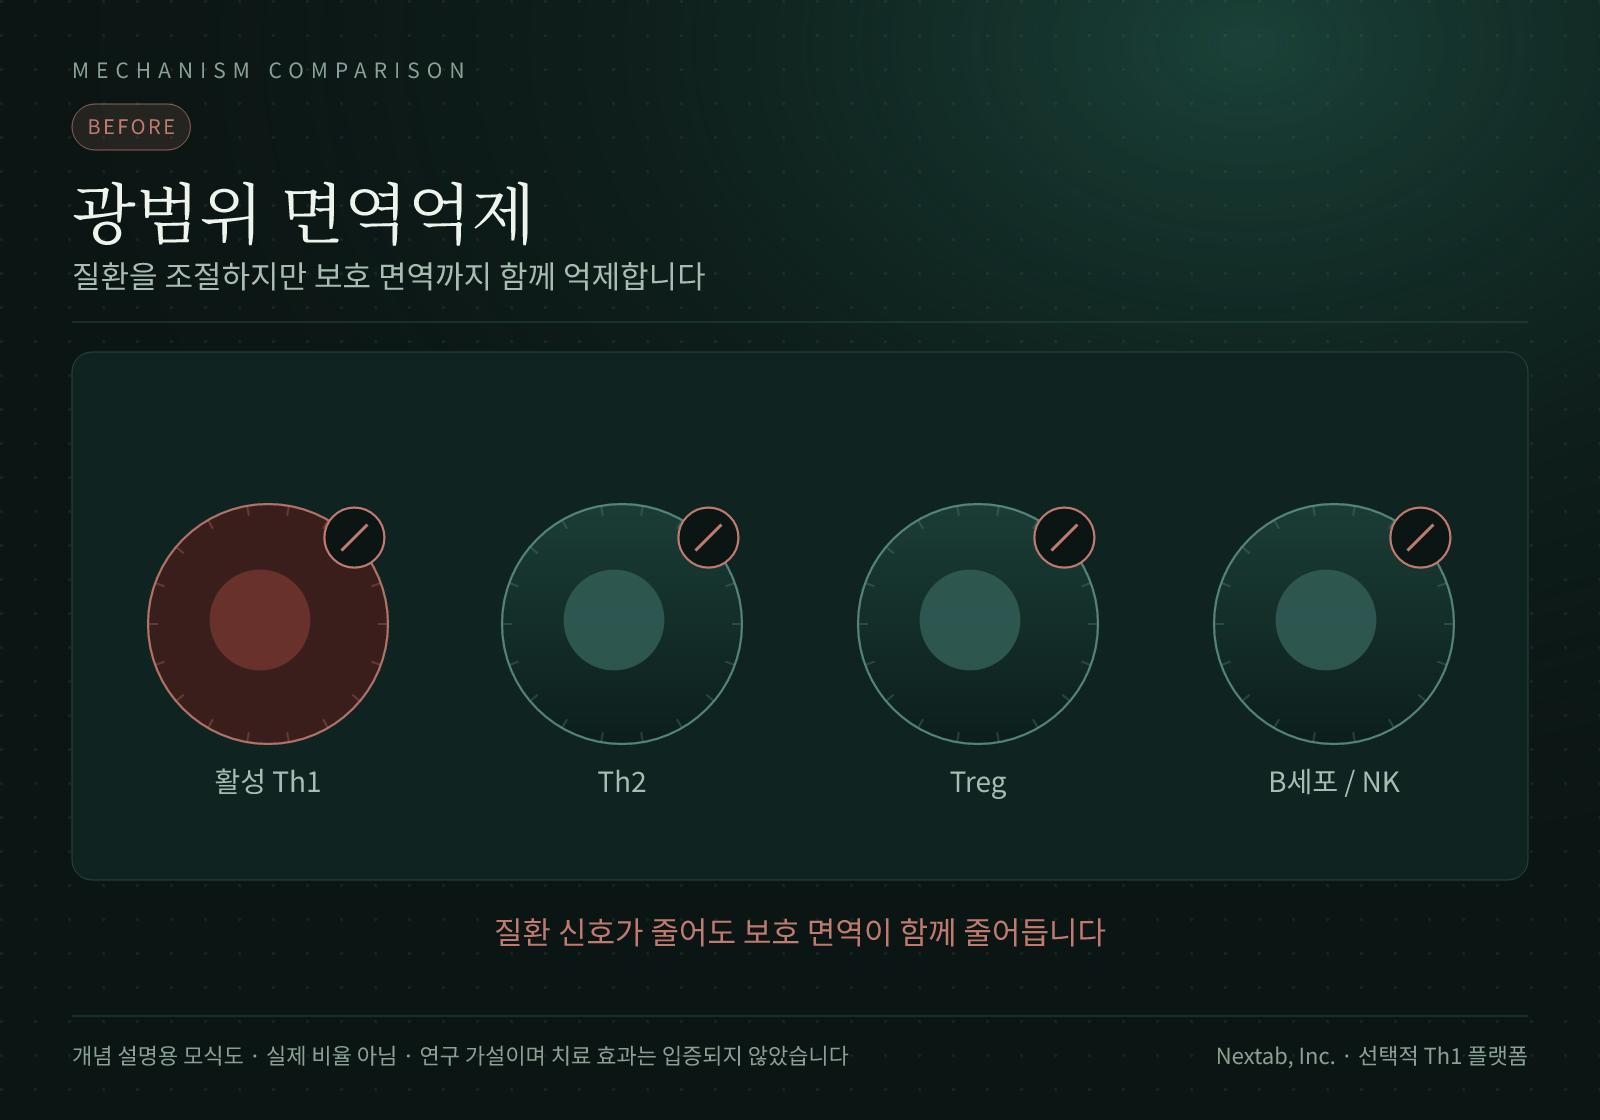
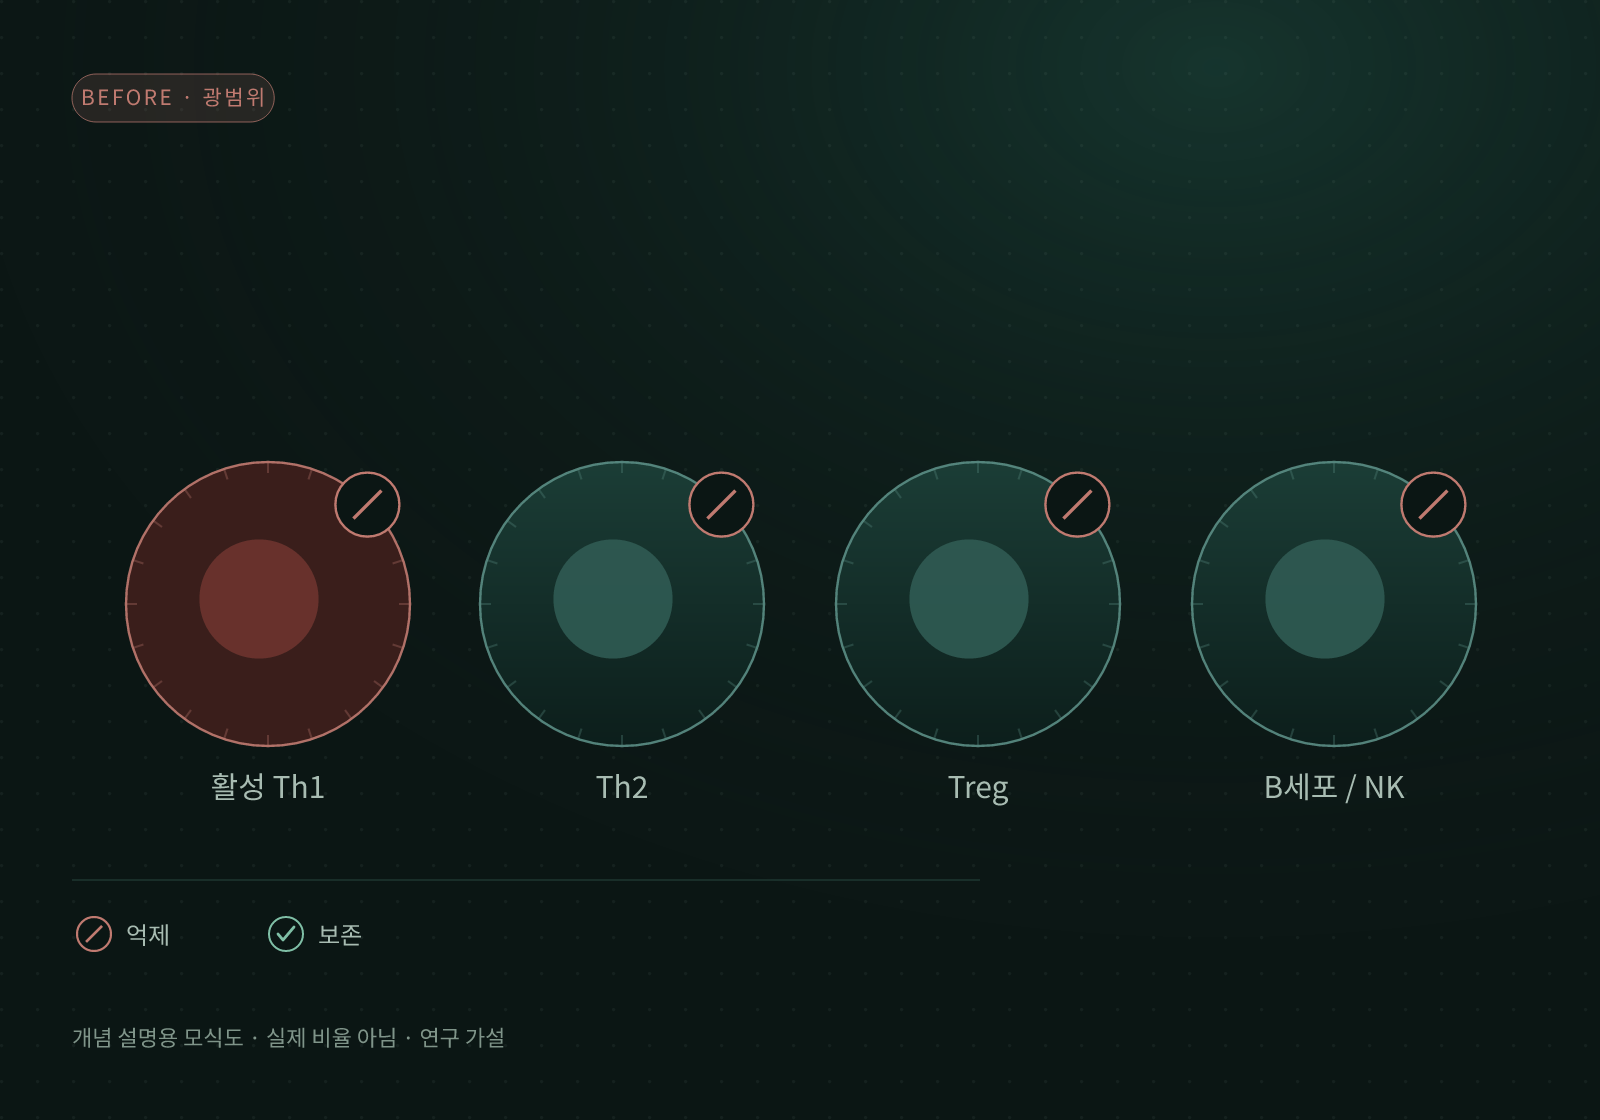
Mechanism diagrams v3: text-free before/after scenes with a shared legend

diff --git a/index.html b/index.html
@@ -261,7 +261,7 @@ img-comparison-slider.noslider img+img{display:none}
 <div class="molstage" id="mol-stage"><div class="molstatus" id="mol-status" data-ko="구조 불러오는 중…">Loading structure…</div><span class="molhint" data-ko="드래그 회전 · 확대">Drag · zoom</span></div>
 <div class="mechfoot" data-ko="PDB 3BDW · 사람 CD94/NKG2A 이종이합체 · 2.5 Å X선 구조 (RCSB PDB). 분자 구조는 표적 결합 가설을 설명하기 위한 참고 자료입니다.">PDB 3BDW · human CD94/NKG2A heterodimer · 2.5 Å X-ray structure (RCSB PDB). The structure is reference material for the target-engagement hypothesis.</div></div>
 <div class="mechcard"><div class="mechhead"><small data-ko="기전 비교">Mechanism comparison</small><h3 data-ko="광범위 면역억제 vs. 선택적 Th1 조절">Broad immunosuppression vs. selective Th1 modulation</h3><p data-ko="가운데 핸들을 좌우로 움직여 두 접근을 비교합니다.">Move the handle left and right to compare the two approaches.</p></div>
-<div class="sliderwrap"><img-comparison-slider tabindex="0" aria-label="Before and after mechanism comparison / 기전 비교"><img slot="first" src="assets/mechanism/mechanism-before-en.png?v=2" data-img-en="assets/mechanism/mechanism-before-en.png?v=2" data-img-ko="assets/mechanism/mechanism-before-ko.png?v=2" data-alt-en="Conceptual schematic: broad immunosuppression suppresses activated Th1 cells together with Th2, Treg, B and NK cells" data-alt-ko="개념 모식도: 광범위 면역억제는 활성 Th1 세포와 함께 Th2, Treg, B, NK 세포를 억제합니다" alt="Conceptual schematic: broad immunosuppression suppresses activated Th1 cells together with Th2, Treg, B and NK cells"><img slot="second" src="assets/mechanism/mechanism-after-en.png?v=2" data-img-en="assets/mechanism/mechanism-after-en.png?v=2" data-img-ko="assets/mechanism/mechanism-after-ko.png?v=2" data-alt-en="Conceptual schematic: NT1-1 engages KLRC1 / NKG2A on activated Th1 cells while other compartments are preserved in the hypothesis" data-alt-ko="개념 모식도: NT1-1은 활성 Th1 세포의 KLRC1 / NKG2A에 결합하고, 가설상 다른 면역 구획은 보존됩니다" alt="Conceptual schematic: NT1-1 engages KLRC1 / NKG2A on activated Th1 cells while other compartments are preserved in the hypothesis"></img-comparison-slider></div>
+<div class="sliderwrap"><img-comparison-slider tabindex="0" aria-label="Before and after mechanism comparison / 기전 비교"><img slot="first" src="assets/mechanism/mechanism-before-en.png?v=3" data-img-en="assets/mechanism/mechanism-before-en.png?v=3" data-img-ko="assets/mechanism/mechanism-before-ko.png?v=3" data-alt-en="Conceptual schematic: broad immunosuppression suppresses activated Th1 cells together with Th2, Treg, B and NK cells" data-alt-ko="개념 모식도: 광범위 면역억제는 활성 Th1 세포와 함께 Th2, Treg, B, NK 세포를 억제합니다" alt="Conceptual schematic: broad immunosuppression suppresses activated Th1 cells together with Th2, Treg, B and NK cells"><img slot="second" src="assets/mechanism/mechanism-after-en.png?v=3" data-img-en="assets/mechanism/mechanism-after-en.png?v=3" data-img-ko="assets/mechanism/mechanism-after-ko.png?v=3" data-alt-en="Conceptual schematic: NT1-1 engages KLRC1 / NKG2A on activated Th1 cells while other compartments are preserved in the hypothesis" data-alt-ko="개념 모식도: NT1-1은 활성 Th1 세포의 KLRC1 / NKG2A에 결합하고, 가설상 다른 면역 구획은 보존됩니다" alt="Conceptual schematic: NT1-1 engages KLRC1 / NKG2A on activated Th1 cells while other compartments are preserved in the hypothesis"></img-comparison-slider></div>
 <div class="mechfoot" data-ko="개념 설명용 모식도 · 실제 비율 아님 · 연구 가설이며 치료 효과는 입증되지 않았습니다.">Conceptual schematics · not to scale · research hypothesis; no therapeutic effect has been established.</div></div>
 </div>
 <div class="statband reveal">
